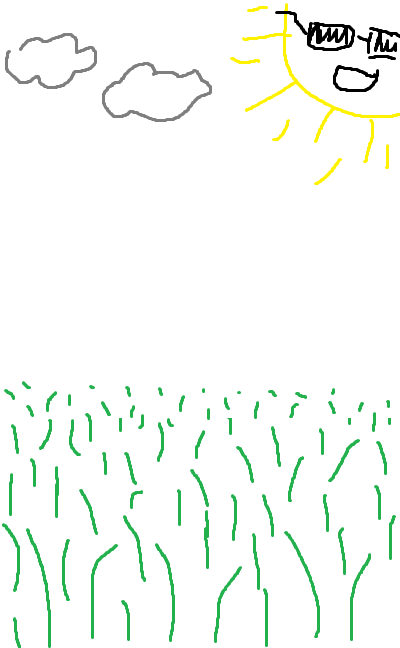
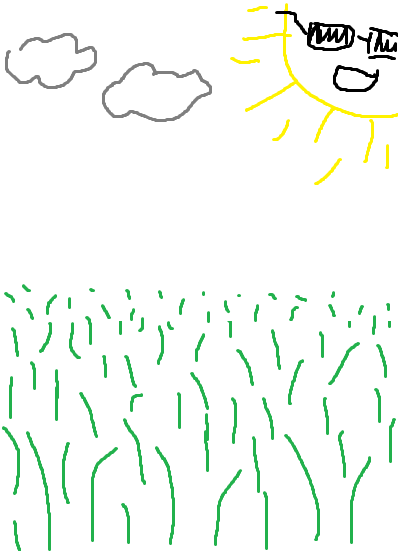
disabled user-select

diff --git a/client/src/App.js b/client/src/App.js
@@ -76,6 +76,7 @@ function App() {
   return (<>
   <LoginContext.Provider value={{isLogInOpen,setIsLogInOpen}} >
     <Login />
+    {/* <AdminPage /> */}
     <PositionContext.Provider value={{position,setPosition}} >
       <FlowerContext.Provider value={{flowerPos,setFlowerPos}} >
         <div className="backdrop-container">

diff --git a/client/src/App.css b/client/src/App.css
@@ -8,7 +8,7 @@
 
 .gamespace {
   width: 400px;
-  height: 648px;
+  height: 551px;
 }
 
 .backdrop-container {
@@ -21,7 +21,7 @@
 
 .backdrop {
   width: 400px;
-  height: 648px;
+  height: 551px;
   /* border: 5px solid black; */
   border-left: 5px solid black;
   border-right: 5px solid black;

diff --git a/client/src/Components/Flower.css b/client/src/Components/Flower.css
@@ -1,10 +1,14 @@
 .flower {
     position: relative;
     width: 97px;
+    -ms-user-select: none;
+    -moz-user-select: none;
+    -webkit-user-select: none;
+    user-select: none;
 }
 
 .flower-count {
     position: absolute;
     left: 5%;
-    top: 20%;
+    top: 15%;
 }

diff --git a/client/src/Components/Controls.css b/client/src/Components/Controls.css
@@ -26,6 +26,10 @@
 .temparrowbox {
     width: 40px;
     height: 40px;
+    -ms-user-select: none;
+    -moz-user-select: none;
+    -webkit-user-select: none;
+    user-select: none;
 }
 
 .temparrowbox:active {

diff --git a/client/src/Components/Person.css b/client/src/Components/Person.css
@@ -1,4 +1,8 @@
 .personbox {
+    -ms-user-select: none;
+    -moz-user-select: none;
+    -webkit-user-select: none;
+    user-select: none;
     position: relative;
     width: 60px;
     height: 80px;

diff --git a/client/src/Components/Logout.css b/client/src/Components/Logout.css
@@ -2,7 +2,7 @@
 .logout {
     position: absolute;
     left: 5%;
-    top: 15%;
+    top: 10%;
     text-decoration: underline;
     border: none;
     background-color: transparent;

diff --git a/client/src/Components/Backpack.css b/client/src/Components/Backpack.css
@@ -1,7 +1,7 @@
 .backpack {
     position: absolute;
     left: 5%;
-    top: 30%;
+    top: 25%;
     padding: 5px;
     background-color: orange;
 }

diff --git a/client/src/Components/Shop.css b/client/src/Components/Shop.css
@@ -1,7 +1,7 @@
 .shop {
     position: absolute;
     left: 5%;
-    top: 25%;
+    top: 20%;
     padding: 5px;
     background-color: lightblue;
 }

diff --git a/client/src/Components/AdminPage.jsx b/client/src/Components/AdminPage.jsx
@@ -1,0 +1,6 @@
+import React from "react";
+const AdminPage = () => {
+    return (<>
+    </>)
+}
+export default AdminPage; 
